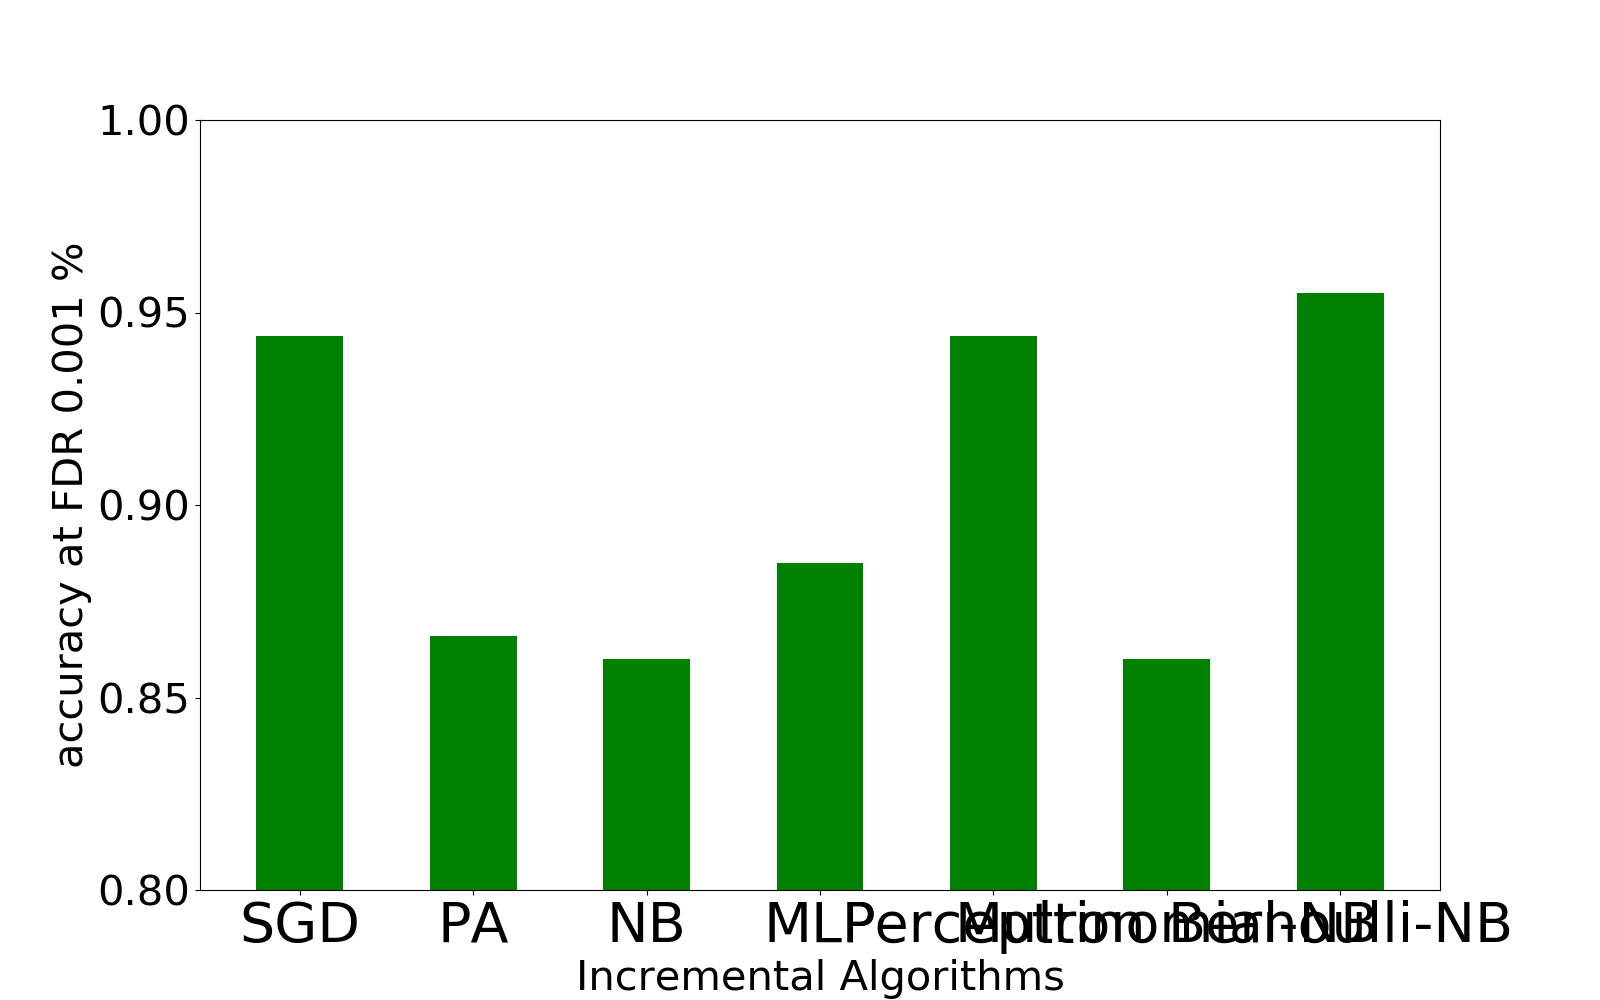
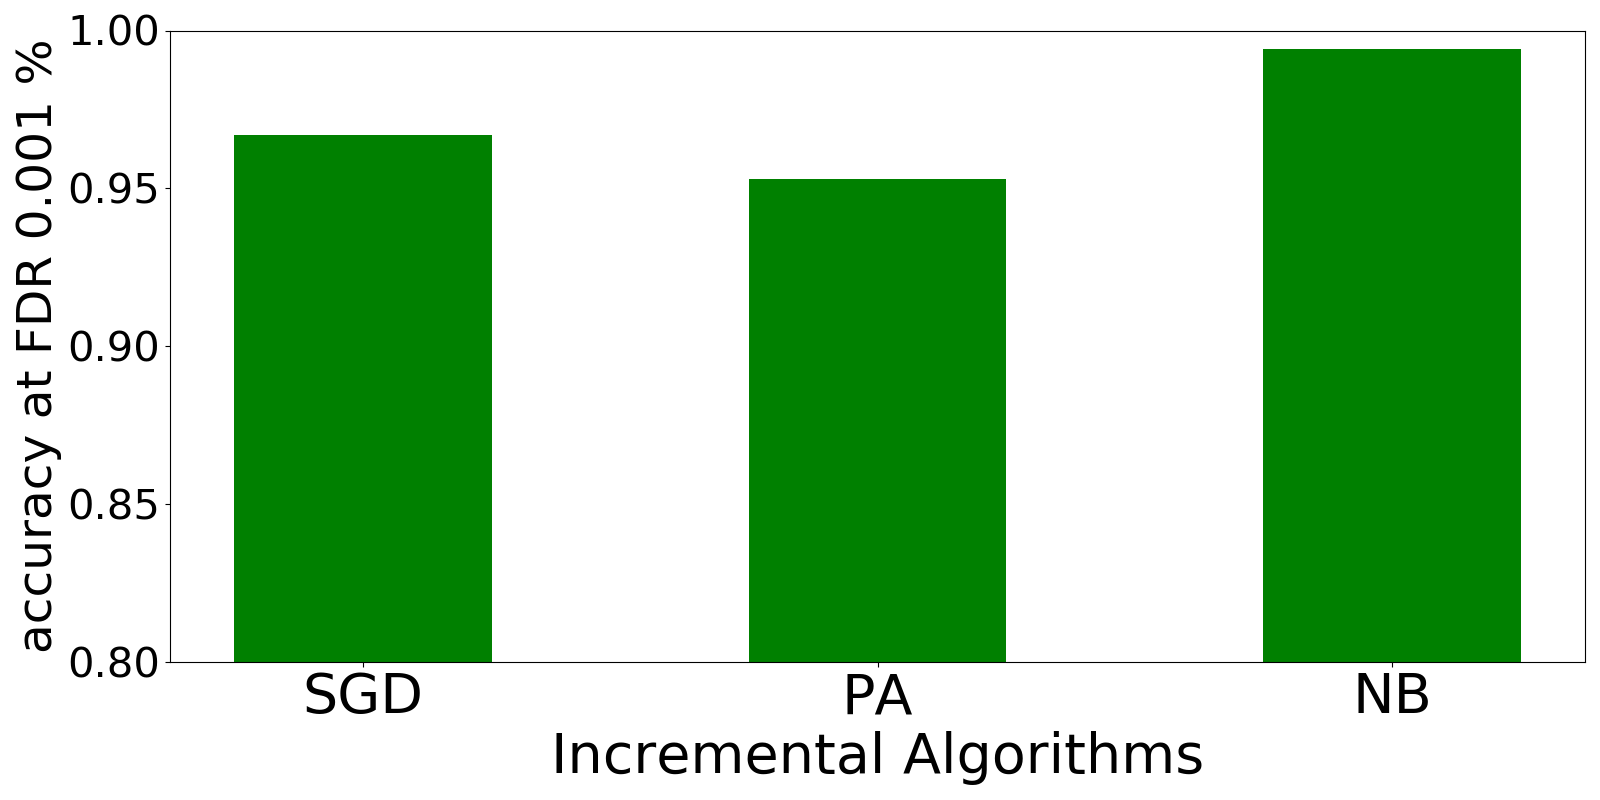
commit in 200405 for NSL-KDD

diff --git a/main_new.py b/main_new.py
@@ -1,7 +1,7 @@
 #!/usr/bin/env python
 # -*- coding: utf-8 -*-
 # Author : Insup Lee <islee94@korea.ac.kr>
-# Jan 2020
+# April 2020
 
 import os
 
@@ -250,9 +250,9 @@ def draw_bar_graph(res_dict_list, do_eval_online=True, metric="accuracy", desc="
             plt.ylim(0.0, 1.0)
     else:  # NSL-KDD
         if metric == "accuracy":
-            plt.ylim(0.9, 1.0)
+            plt.ylim(0.8, 1.0)
         elif metric == "recall":
-            plt.ylim(0.0, 1.0)
+            plt.ylim(0.8, 1.0)
 
     # plt.show()
     plt.savefig("{}\\{}_accuracy.png".format(g_fig_dir, title))
@@ -578,12 +578,12 @@ def main():
     print("################################################################################")
 
     # NOTICE NSL-KDD
-    # experiment_incremental(bin_clf=is_bin_clf, do_eval_online=True, do_kisti=False)
-    # experiment_incremental(bin_clf=is_bin_clf, do_eval_online=False, do_kisti=False)
+    experiment_incremental(bin_clf=is_bin_clf, do_eval_online=True, do_kisti=False)
+    experiment_incremental(bin_clf=is_bin_clf, do_eval_online=False, do_kisti=False)
 
     # NOTICE KISTI
-    experiment_incremental(bin_clf=is_bin_clf, do_eval_online=True, do_kisti=True)
-    experiment_incremental(bin_clf=is_bin_clf, do_eval_online=False, do_kisti=True)
+    #experiment_incremental(bin_clf=is_bin_clf, do_eval_online=True, do_kisti=True)
+    #experiment_incremental(bin_clf=is_bin_clf, do_eval_online=False, do_kisti=True)
 
 
 if __name__ == "__main__":

diff --git a/feature_engineering.py b/feature_engineering.py
@@ -1,0 +1,54 @@
+#!/usr/bin/env python
+# -*- coding: utf-8 -*-
+# Author : Insup Lee <islee94@korea.ac.kr>
+# April 2020
+
+import os
+import time
+import numpy as np
+import pandas as pd
+import matplotlib.pyplot as plt
+from data_tlsdnshttp import TlsDnsHttp
+
+def get_colors(t):
+    color_dict = {0: "#0392cf", 1: "#7bc043", 2: "#ee4035"}
+    colors = list()
+    for i in range(len(t)):
+        colors.append(color_dict[t[i]])
+    return np.array(colors)
+
+def main():
+    tdh = TlsDnsHttp()
+    X, y = tdh.get_data()
+
+    do_plot = False
+    if do_plot:
+        colors = get_colors(y)
+        pd.plotting.scatter_matrix(X, color=colors, diagonal='kde')
+
+    print(X.shape)
+
+    print(X['interarrival_time'])
+    print(X['frame_time'])
+    return
+    for i in range(4):
+        start_idx = i*8
+        last_idx = (i+1)*8
+        if i == 3:
+            last_idx -= 1
+
+        X_temp = X.iloc[:, list(range(start_idx, last_idx))]
+        X_temp.boxplot()
+        plt.show()
+
+    with open(os.path.join("result_feature-engineering", "describe.txt"), "wt") as wf:
+        wf.write(str(X.describe()))
+    #print(X.describe())
+
+
+if __name__ == "__main__":
+    print("HELLO MAIN")
+    start_time = time.time()
+    main()
+    print("[!] time {:.3f} seconds".format(time.time() - start_time))
+    print("END")

diff --git a/data_tlsdnshttp.py b/data_tlsdnshttp.py
@@ -38,7 +38,27 @@ g_selected_features_list = [
     "TCP_segment_payload", "cipersuites_candidate", "extension_length", "cert_isExpired"
 ]
 
-# g_selected_features_list = g_possible_features_list[:]
+# 37(보고서언급) - 10(코드에없음) + 4(보고서에없는데 코드에있음) = 31
+_g_selected_features_list = [
+    "filename", "session_key",
+    # protocol,
+    "frame_time",
+    # 패킷길이,
+    "interarrival_time", "src_ip", "dst_ip", "src_port", "dst_port",
+    "TCP_segment_len", "TCP_segment_payload",
+    "ssl_handshake_version",  "cipersuites_candidate", "ciphersuites", "ciphersuites_candidate_length",
+    "extension_support_group", "extension_server_name", "extension_length",
+    "certificate", "cert_startdate", "cert_enddate", "cert_isExpired"
+    # 자기서명 여부 
+    "certificate_length",
+    "http_content_type", "http_server", "http_user_agent",
+    # Method, Host, URI, Accept, Accept-encoding
+    "DNS_qry_name", "DNS_resp_name",
+    # 리턴 IP주소 수, TTL분포차이
+    "DNS_CNAME", "http_request_version", "http_accept_language",  "http_content_length"
+]
+
+g_selected_features_list = g_possible_features_list[:]
 
 
 def extract_feature(all_feature_df, selected_features):

diff --git a/experiment_setting.py b/experiment_setting.py
@@ -22,18 +22,20 @@ g_algorithms = ["SGD", "MLP", "NB"]  # g_algorithms = ["Perceptron", "SGD", "PA"
 g_algorithms = ["SGD", "PA", "NB", "MLP"]
 g_algorithms = ["SGD", "PA", "NB"]
 g_algorithms = ["SGD", "PA", "NB", "MLP", "Perceptron", "Multinomial-NB", "Bernoulli-NB"]
+g_algorithms = ["SGD", "PA", "NB"]
 
 g_fdr_alpha_list = [0.001]  # g_fdr_alpha_list = [0.001, 0.01, 0.1, 1]
-g_n_iter = 5
+# g_n_iter = 5
+g_n_iter = 10
 g_test_size = 0.3
 
 g_fig_dir = "./figures"
 
-g_figsize = (16, 10) #  (8, 5)
+g_figsize = (16, 8) #  (8, 5)
 
 g_title_fontsize = 40  # 15
-g_xlabel_fontsize = 30  # 15
-g_y_label_fontsize = 30  # 14
+g_x_label_fontsize = 40  # 15
+g_y_label_fontsize = 35  # 14
 g_annotate_font_size = 25
 g_x_ticks_font_size = 40
 g_y_ticks_font_size = 30
